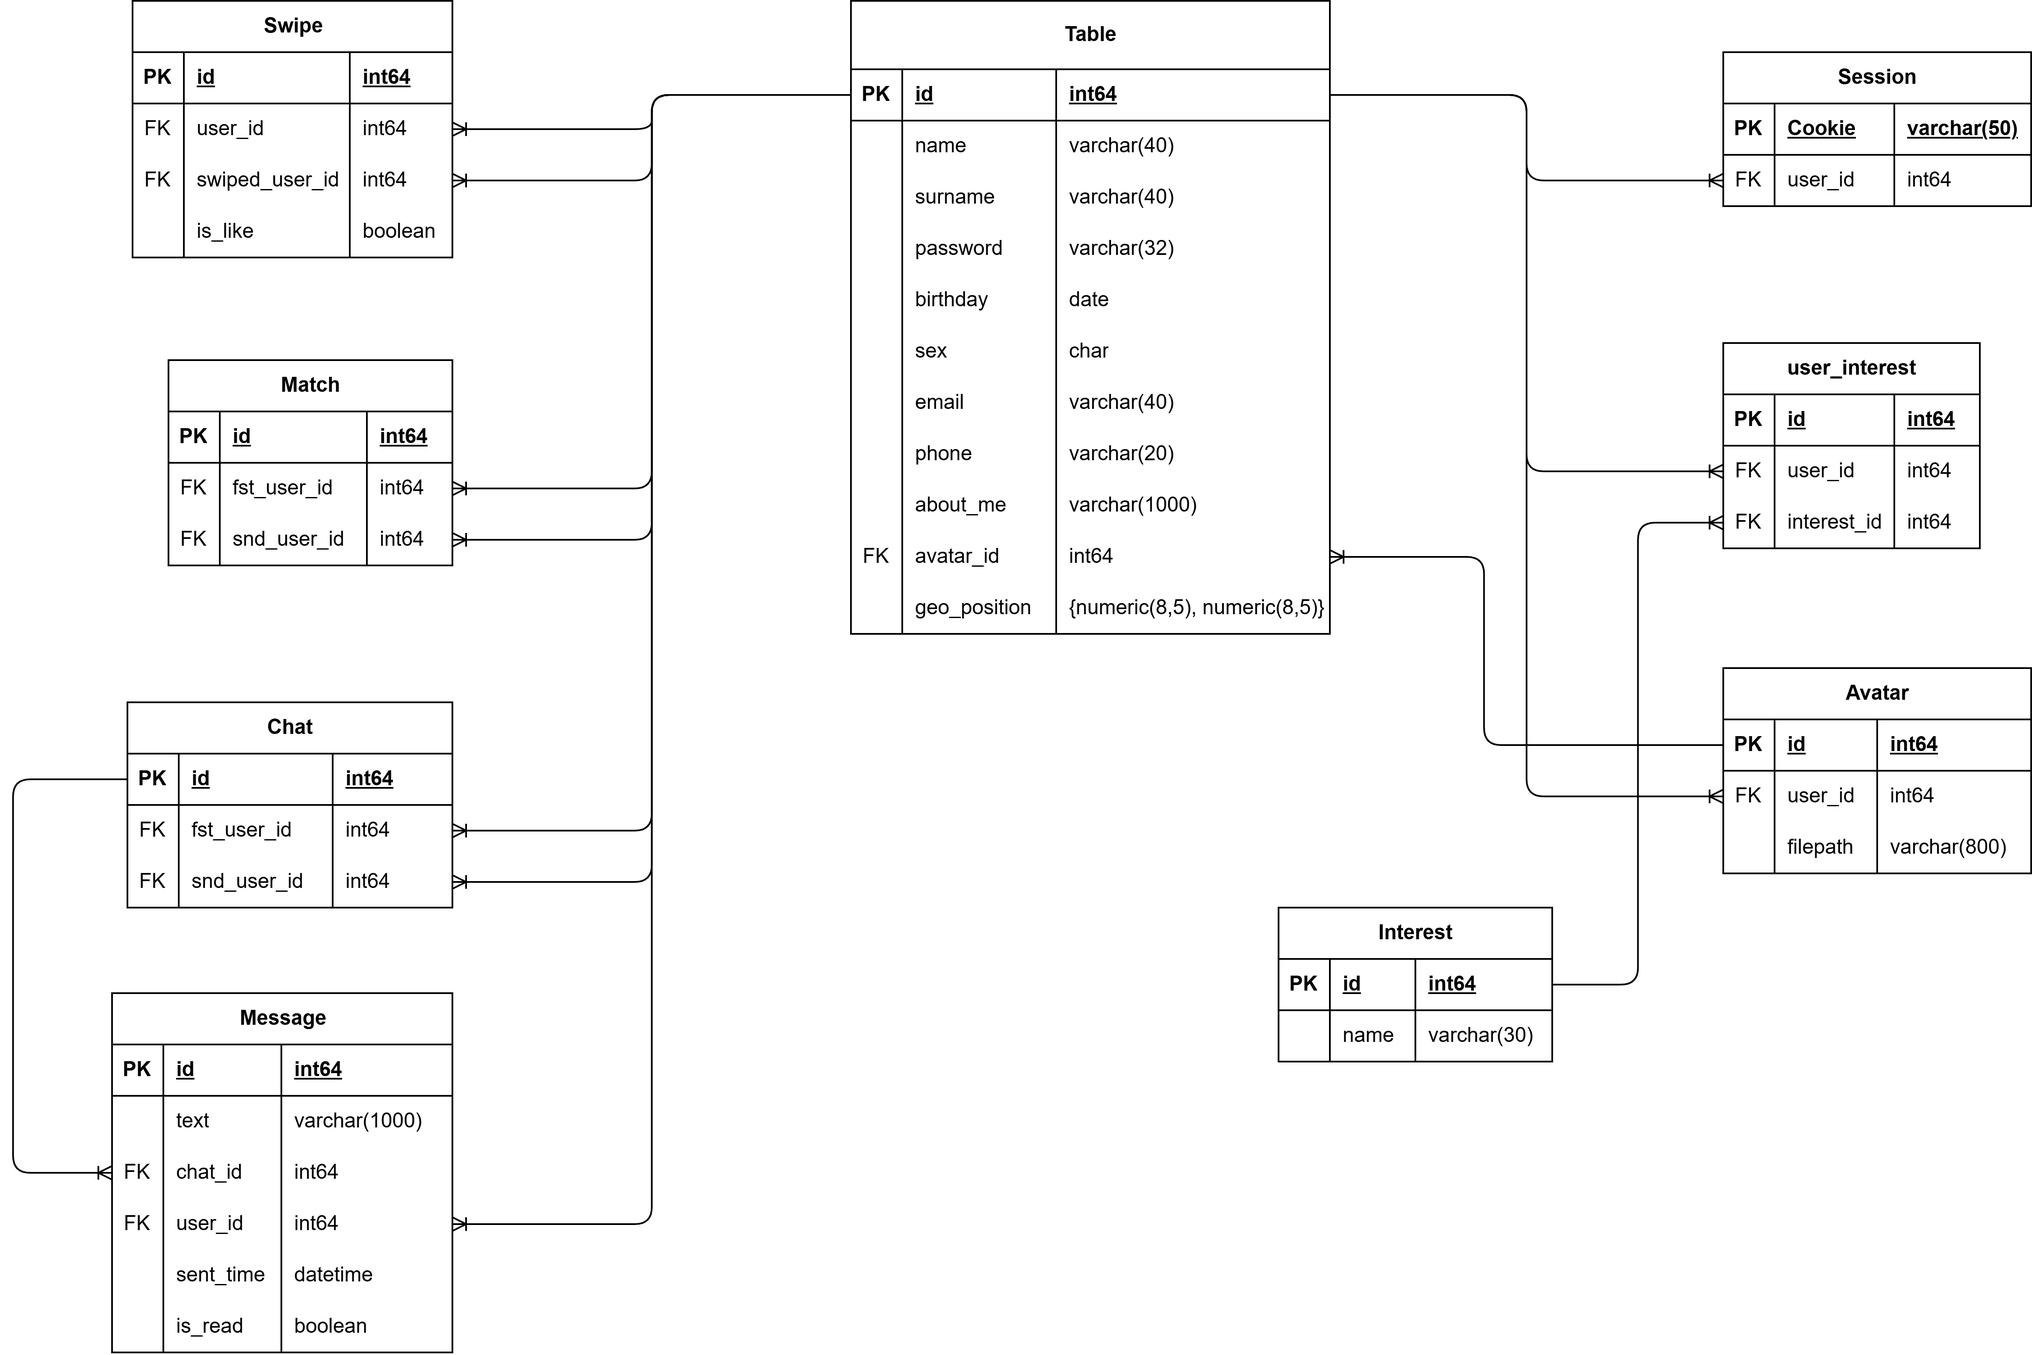
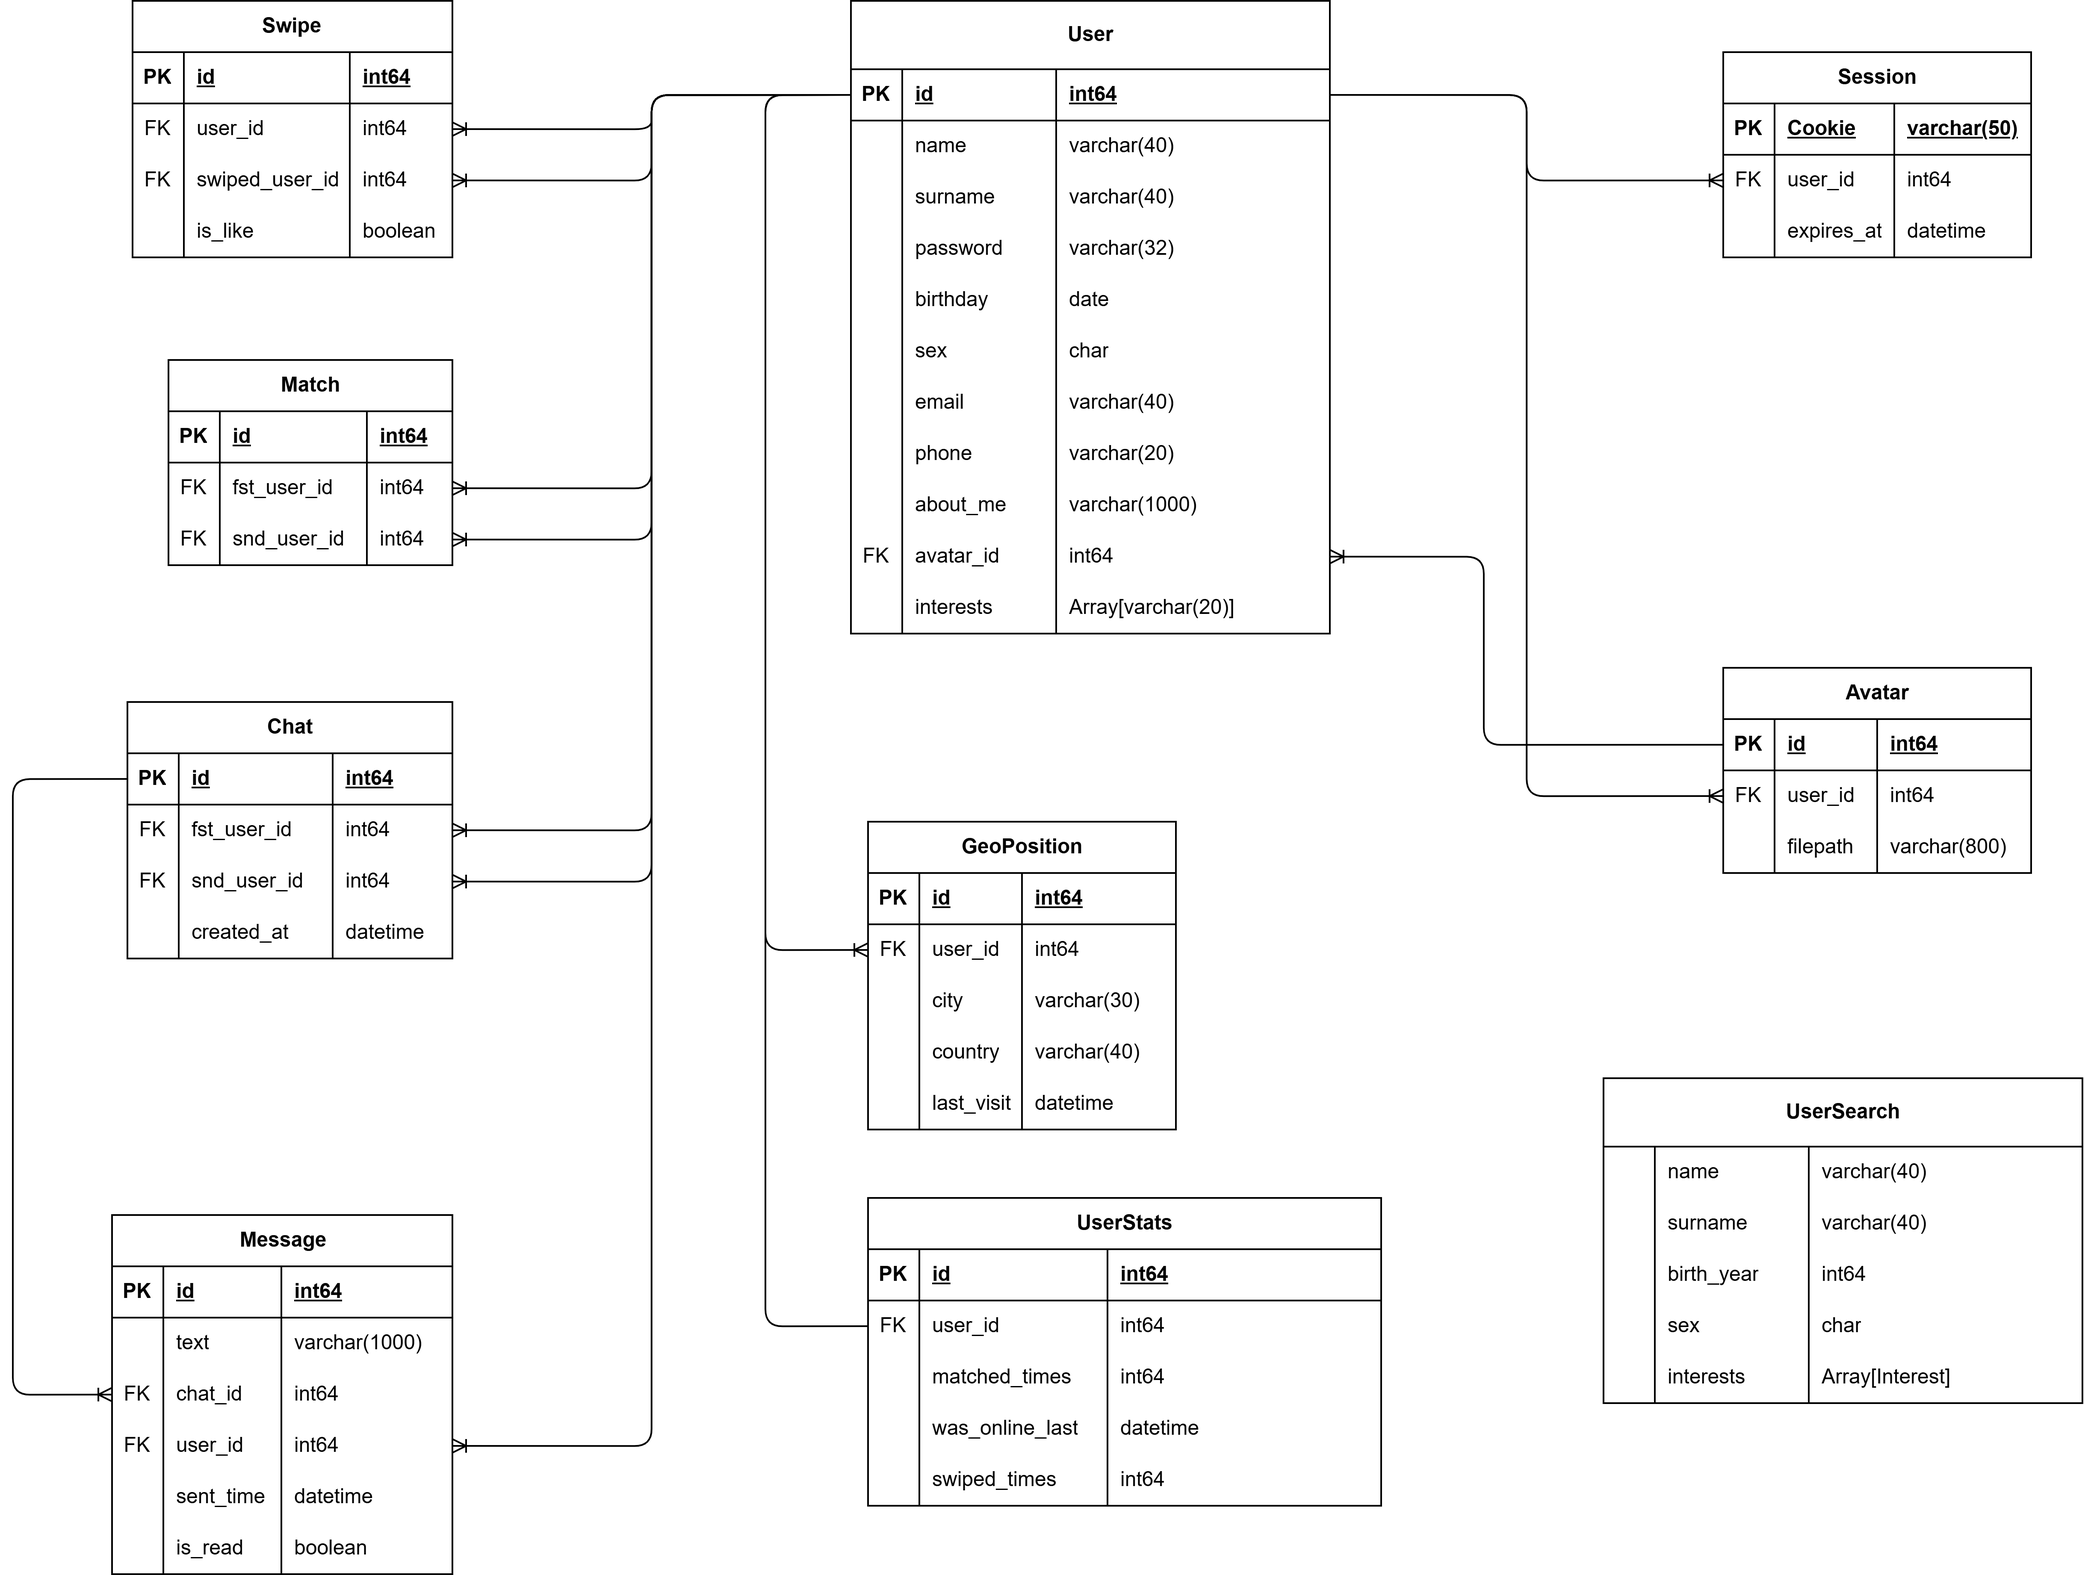
edited

diff --git a/README.md b/README.md
@@ -184,12 +184,12 @@ MAU|75 млн
 2) Трафик приходит на железо, называемое Local Traffic Manager.
 3) В зависимости от вида трафика сделать следующее:
     - если веб-трафик, то LTM сам балансирует трафик на сервер
-    - если мобильный трафик (а он преимущественный), то LTM балансирует трафик на nginx, который в свою очередь балансирует трафик на мобильный кластер по стратегии weighted round-robin
+    - если мобильный трафик (а он преимущественный), то LTM балансирует трафик на nginx, который в свою очередь балансирует трафик на мобильный кластер по стратегии round-robin
 
 LTM - железо, разработанное компанией F5, используемое в сервисах, аналогичных разрабатываемому. Также она предоставляет решение для глобальной балансировки.
 
 ### Решение по развертыванию - Kubernetes
-Kubernetes, разработанный Google, - открытый контейнерный оркестратор, который позволяет развертывать и масштабировать приложения в кластере. Он позволяет автоматизировать процессы развертывания, обновления и отказоустойчивости приложений.
+Kubernetes, разработаннытй Google, - открытый контейнерный оркестратор, который позволяет развертывать и масштабировать приложения в кластере. Он позволяет автоматизировать процессы развертывания, обновления и отказоустойчивости приложений.
 1) Создается Kubernetes Service, который будет действовать как балансировщик нагрузки для приложений. Service определяет маршруты к подам с использованием механизма Service Discovery.
 2) Внутри кластера Kubernetes, kube-proxy будет перенаправлять трафик с Service на поды, используя стратегию балансировки sticky sessions.
 
@@ -205,7 +205,7 @@ Kubernetes, разработанный Google, - открытый контейн
 - несколько роутеров на входе в ДЦ
 - несколько инстансов nginx
 - следует выделить железо, способное выдержать б*о*льшую часть пикового трафика
-- Проводить e2e health check-и каждые 30 минут + availability check-и каждую минуту + functional check-и каждые 5 минут + проверки базы данных и кеша каждые 5 минут
+- Проводить e2e health check-и каждые 30 секунд + availability check-и каждую минуту + проверки базы данных и кеша каждые 5 минут
 
 ## 5. Логическая модель БД
 ![alt text](tinder_db.png)
@@ -226,49 +226,63 @@ Kubernetes, разработанный Google, - открытый контейн
 | phone             | varchar(20)      |      20      |          15          | 
 | about_me          | varchar(1000)    |      1000    |          280         |
 | avatar_id         | int64            |      8       |          8           |
-| geo_position      | numeric(8,5) * 2 |      44      |          44          |
-| **Сумма**         |                  |   **1236**   |         **424**      |
+| interests         |Array[varchar(20)]|      11*20   |          2*20        |
+| **Сумма**         |                  |   **1412**   |         **440**      |
 
-Размер одной записи - около 424 байт.
+Размер одной записи - около 440 байт.
 
-При размере аудитории в 75 млн пользователей получим общий объём таблицы: 29.6 Гб
+При размере аудитории в 75 млн пользователей получим общий объём таблицы: 30.8 Гб
+
+**GeoPosition**
+| Поле              | Тип          | Размер, байт |
+| ----------------- | ------------ | :----------: |
+| id                | int64        |      8       |
+| user_id           | int64        |      8       |
+| city              | varchar(30)  |      30      |
+| country           | varchar(40)  |      40      |
+| last_visit        | datetime     |      8       |
+| **Сумма**         | -            |   **94**     |
+
+Предположим, что мы храним последние местоположения пользователя за последние 3 месяца, а сохраняем мы их раз в неделю, тогда при количестве пользователей 42 млн получим такой объем таблицы: 47.3 Гб
+
+**UserStats**
+
+| Поле              | Тип          | Размер, байт |
+| ----------------- | ------------ | :----------: |
+| id                | int64        |      8       |
+| user_id           | int64        |      8       |
+| matched_times     | int64        |      8       |
+| swiped_times      | int64        |      8       |
+| was_online_last   | datetime     |      8       |
+| **Сумма**         | -            |   **30**     |
+
+Итого затраты на статистику по пользователю - 30 байт. При 42 млн пользователях в день это 1.2 Гб.
+
+**UserSearch**
+
+| Поле              | Тип          | Размер, байт |
+| ----------------- | ------------ | :----------: |
+| name              | varchar(40)  |      10      |
+| surname           | varchar(40)  |      10      |
+| birth_year        | int64        |      8       |
+| sex               | char         |      1       |
+| interests         | Array[varchar(20)]| 3*20    |
+| **Сумма**         | -            |   **89**     |
+
+У каждого пользователя хранится только один фильтр для поиска. Размер поисковой информации пользователя - 89 байт. При 75 млн пользователях аудитории это 6.2 Гб.
 
 **Session**
 
 | Поле              | Тип          | Размер, байт |
 | ----------------- | ------------ | :----------: |
 | Cookie            | varchar(50)  |      50      |
-| User_id           | int64        |      8       |
-| **Сумма**         | -            |   **58**     |
+| expires_at        | datetime     |      8       |
+| user_id           | int64        |      8       |
+| **Сумма**         | -            |   **66**     |
 
-Размер одной записи - около 58 байт.
+Размер одной записи - около 66 байт.
 
-Допустим, что кука выдается на 3 суток. При размере суточной аудитории в 42 млн пользователей получим общий объём таблицы: 6.9 Гб
-
-**Interest**
-
-| Поле              | Тип          | Размер, байт |
-| ----------------- | ------------ | :----------: |
-| Id                | int64        |      8       |
-| Name              | varchar(30)  |      30      |
-| **Сумма**         | -            |   **38**     |
-
-Размер одной записи - около 38 байт.
-
-В Tinder ecть 11 видов интересов. Размер таблицы - 418 байт.
-
-**UserInterest**
-
-| Поле              | Тип          | Размер, байт |
-| ----------------- | ------------ | :----------: |
-| Id                | int64        |      8       |
-| User_id           | int64        |      8       |
-| Interest_id       | int64        |      8       |
-| **Сумма**         | -            |   **24**     |
-
-Размер одной записи - около 24 байт.
-
-В среднем у одного пользователя 4 интереса. При размере аудитории в 75 млн пользователей получим общий объём таблицы: 286 Мб
+Допустим, что кука выдается на 3 суток. При размере суточной аудитории в 42 млн пользователей получим общий объём таблицы: 7.9 Гб
 
 **Avatar**
 
@@ -322,13 +336,14 @@ Kubernetes, разработанный Google, - открытый контейн
 | Id                | int64        |      8       |
 | fst_user_id       | int64        |      8       |
 | snd_user_id       | int64        |      8       |
-| **Сумма**         | -            |   **24**     |
+| created_at        | datetime     |      8       |
+| **Сумма**         | -            |   **32**     |
 
-Размер одной записи - около 24 байт.
+Размер одной записи - около 32 байт.
 
 Информация о чатах хранится полгода.
 
-Будем считать что каждый день появляется 50 млн чатов. Тогда общий объем таблицы: 402 Гб
+Будем считать что каждый день появляется 50 млн чатов. Тогда общий объем таблицы: 536 Гб
 
 **Message**
 
@@ -352,14 +367,15 @@ Kubernetes, разработанный Google, - открытый контейн
 
 | Таблица             | Размер одной строки | Кол-во строк | Общий размер | Нагрузка на чтение(RPS) | Нагрузка на запись(RPS) |
 | ------------------- | ------------------- | ------------ | ------------ | ----------------------  | ------------------      |
-| User                | 424 Байт            | 75 млн       | 29.6 Гб      | 35893                   | 0.6                     |
+| User                | 440 Байт            | 75 млн       | 30.8 Гб      | 35893                   | 0.6                     |
+| GeoPosition         | 94 Байт             | 546 млн      | 47.3 Гб      | 4861                    | 16042                   |
+| UserStats           | 30 Байт             | 42 млн       | 1.2 Гб       | 2431                    | 69444                   |
+| UserSearch          | 89 Байт             | 75 млн       | 6.2 Гб       | 4861                    | 48.6                    |
 | Session             | 58 Байт             | 126 млн      | 6.9 Гб       | 82180                   | 486.11                  |
-| Interest            | 38 Байт             | 11           | 418 байт     | 39618                   | 0                       |
-| UserInterest        | 24 Байта            | 300 млн      | 286 Мб       | 39618                   | 0.66                    |
 | Avatar              | 864 Байт            | 375 млн      | 301 Гб       | 47394                   | 30.66                   | 
 | Swipe               | 25 Байт             | 288 млрд     | 3.3 Тб       | 2674                    | 36944                   |
 | Match               | 24 Байта            | 9 млрд       | 100 Гб       | 2674                    | 2674                    |
-| Chat                | 24 Байта            | 9 млрд       | 402 Гб       | 3888                    | 2674                    |
+| Chat                | 32 Байта            | 9 млрд       | 536 Гб       | 3888                    | 2674                    |
 | Message             | 83 Байта            | 180 млрд     | 13 Тб        | 3888                    | 24062                   |
 
 
